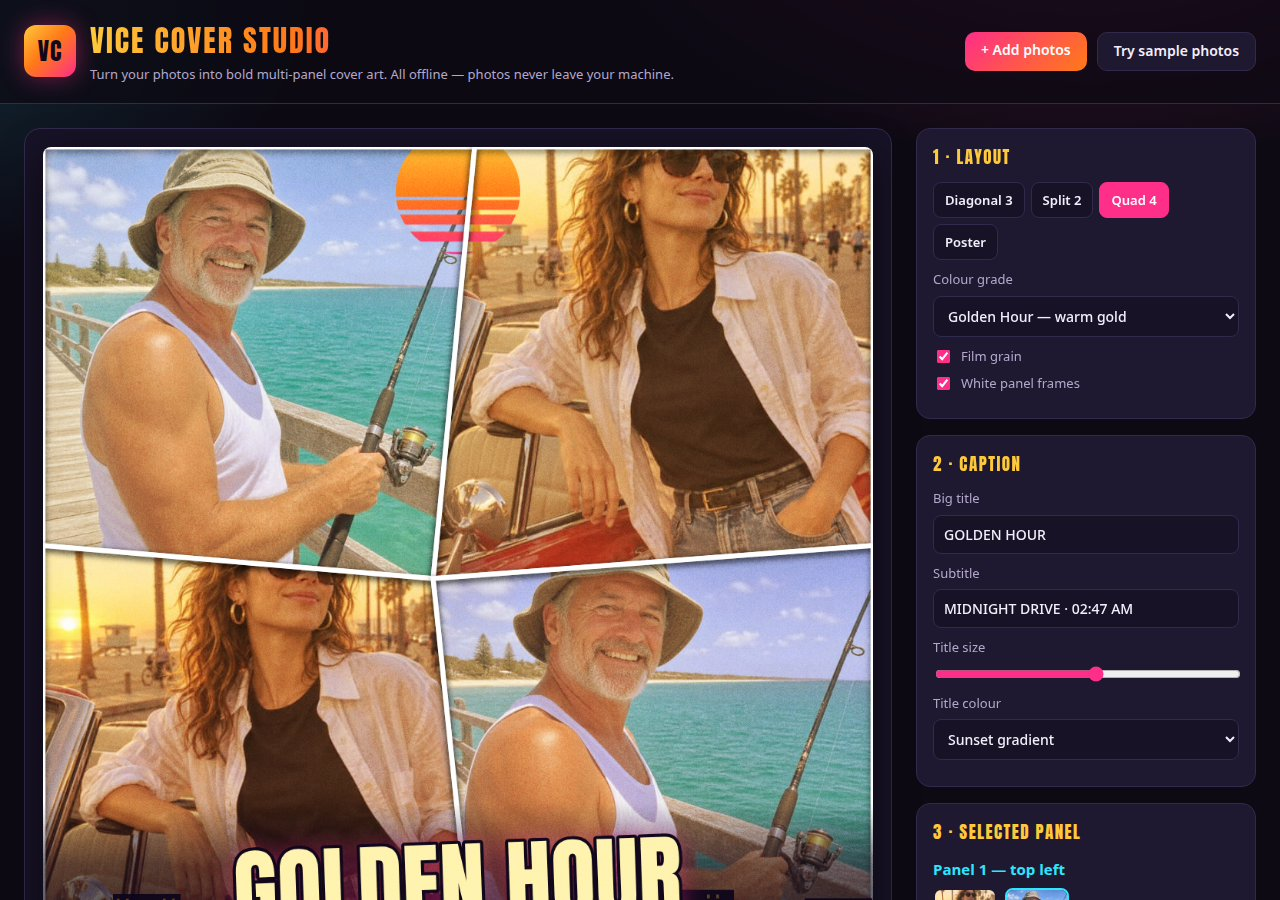
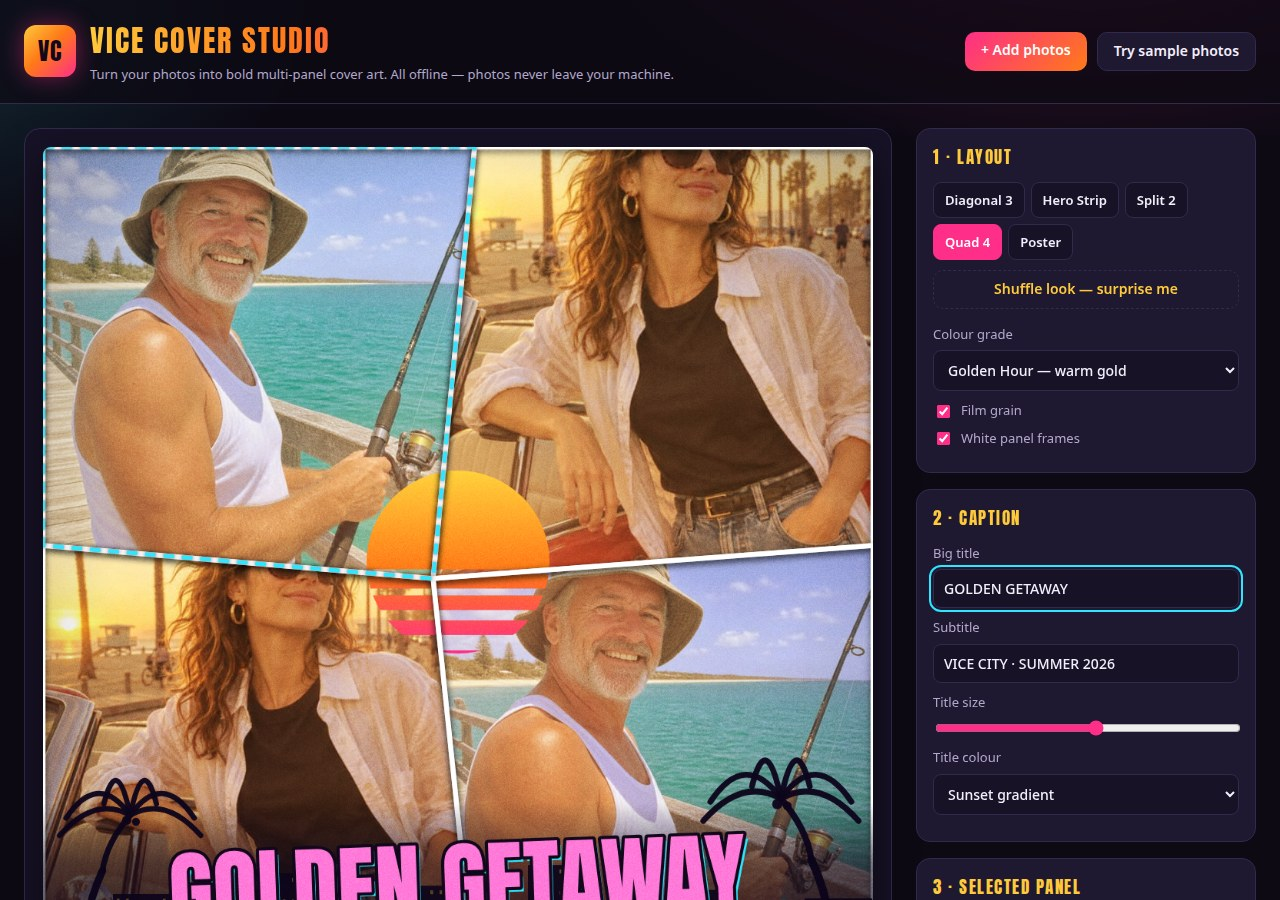
Vice Cover Studio r3: bigger retro sun, palm silhouettes, Hero Strip layout, Vice grade, hard-offset title, Shuffle look
- Retro sun 1.5-2x bigger with glow, placed per layout where faces never
  are (top-right corner for hero layouts, seam centre for split/quad)
- Palm tree silhouettes flanking the caption band, drawn in code
- New Hero Strip layout (big hero + 3-panel strip) and Vice grade
  (hot pink / purple / teal)
- Title gets a hard retro offset shadow (cyan behind neon, pink else)
  plus a subtle vignette for depth
- Shuffle look button: one tap randomises layout + grade + title colour
- Preview shows a dashed cyan outline around the selected panel
- All 4 screenshots regenerated with the new renderer (0 console errors,
  0 failed/external requests in headless Chrome)

diff --git a/app/src/cover.js b/app/src/cover.js
@@ -5,6 +5,7 @@
 
 export const LAYOUTS = {
   diagonal3: { name: "Diagonal 3", panels: ["hero", "street", "night"] },
+  heroStrip: { name: "Hero Strip", panels: ["hero", "strip 1", "strip 2", "strip 3"] },
   split2: { name: "Split 2", panels: ["left", "right"] },
   quad4: { name: "Quad 4", panels: ["top-left", "top-right", "bottom-left", "bottom-right"] },
   poster: { name: "Poster", panels: ["full"] },
@@ -15,6 +16,16 @@ export function panelShapes(layout, W, H) {
   const x = (f) => f * W;
   const y = (f) => f * H;
   switch (layout) {
+    case "heroStrip":
+      // One big hero panel on top, then a strip of three small panels below.
+      // The hero's bottom edge slopes gently; each strip top follows that
+      // same line so the panels meet without gaps.
+      return [
+        { name: "Panel 1 — hero", poly: [[0, 0], [W, 0], [W, y(0.58)], [0, y(0.64)]] },
+        { name: "Panel 2 — strip 1", poly: [[0, y(0.64)], [x(0.36), y(0.618)], [x(0.31), H], [0, H]] },
+        { name: "Panel 3 — strip 2", poly: [[x(0.36), y(0.618)], [x(0.68), y(0.599)], [x(0.63), H], [x(0.31), H]] },
+        { name: "Panel 4 — strip 3", poly: [[x(0.68), y(0.599)], [W, y(0.58)], [W, H], [x(0.63), H]] },
+      ];
     case "split2":
       return [
         { name: "Panel 1 — left", poly: [[0, 0], [x(0.56), 0], [x(0.47), H], [0, H]] },
@@ -91,6 +102,10 @@ const GRADES = {
   gold: [
     ["overlay", [[0, "rgba(255,200,90,0.30)"], [1, "rgba(255,120,20,0.26)"]]],
     ["soft-light", [[0, "rgba(255,230,160,0.30)"], [1, "rgba(160,80,0,0.20)"]]],
+  ],
+  vice: [
+    ["overlay", [[0, "rgba(255,0,160,0.30)"], [0.5, "rgba(140,0,200,0.18)"], [1, "rgba(0,220,255,0.26)"]]],
+    ["multiply", [[0, "rgba(120,0,160,0.16)"], [1, "rgba(0,40,90,0.22)"]]],
   ],
 };
 
@@ -226,6 +241,51 @@ function drawSkyline(ctx, W, H) {
   ctx.restore();
 }
 
+// Palm tree silhouette, drawn in code: a leaning trunk and seven drooping
+// fronds. Two of these flanking the caption band are the Vice City shorthand.
+function drawPalm(ctx, x, baseY, h, lean) {
+  const crownX = x + lean * h;
+  const crownY = baseY - h;
+  ctx.save();
+  ctx.strokeStyle = "rgba(14,5,28,0.96)";
+  ctx.fillStyle = "rgba(14,5,28,0.96)";
+  ctx.lineCap = "round";
+  // Trunk: three tapering strokes along one curve so it narrows to the crown.
+  const segs = 3;
+  for (let s = 0; s < segs; s++) {
+    const t0 = s / segs, t1 = (s + 1) / segs;
+    const px0 = x + lean * h * t0 * t0, py0 = baseY - h * t0;
+    const px1 = x + lean * h * t1 * t1, py1 = baseY - h * t1;
+    ctx.lineWidth = Math.max(2.5, h * 0.055 * (1 - t0 * 0.55));
+    ctx.beginPath();
+    ctx.moveTo(px0, py0);
+    ctx.quadraticCurveTo(px0 + lean * h * 0.08, (py0 + py1) / 2, px1, py1);
+    ctx.stroke();
+  }
+  // Fronds: six thick arcs fanning out from the crown, bowing up first and
+  // then drooping at the tips — the droop is what reads as "palm", not a star.
+  ctx.lineWidth = Math.max(2.5, h * 0.032);
+  const fronds = 6;
+  for (let i = 0; i < fronds; i++) {
+    const a = ((-165 + (i / (fronds - 1)) * 150) * Math.PI) / 180;
+    const len = h * (0.44 + 0.18 * Math.sin((i / (fronds - 1)) * Math.PI));
+    const mx = crownX + Math.cos(a) * len * 0.5;
+    const my = crownY + Math.sin(a) * len * 0.5 - len * 0.14;
+    const ex = crownX + Math.cos(a) * len;
+    const ey = crownY + Math.sin(a) * len * 0.55 + len * 0.42;
+    ctx.beginPath();
+    ctx.moveTo(crownX, crownY);
+    ctx.quadraticCurveTo(mx, my, ex, ey);
+    ctx.stroke();
+  }
+  // Coconuts under the crown.
+  ctx.beginPath();
+  ctx.arc(crownX - h * 0.02, crownY + h * 0.03, h * 0.028, 0, Math.PI * 2);
+  ctx.arc(crownX + h * 0.035, crownY + h * 0.04, h * 0.024, 0, Math.PI * 2);
+  ctx.fill();
+  ctx.restore();
+}
+
 let grainTile = null;
 function grainPattern(ctx) {
   if (grainTile) return grainTile;
@@ -306,11 +366,15 @@ function drawCaption(ctx, W, H, state) {
     ctx.lineWidth = Math.max(4, size * 0.07);
     ctx.strokeStyle = "#12081c";
     ctx.lineJoin = "round";
-    ctx.shadowColor = "rgba(255,46,136,0.65)";
-    ctx.shadowBlur = size * 0.22;
-    ctx.shadowOffsetY = size * 0.03;
-    ctx.strokeText(title, 0, 0);
+    // Retro hard offset: a solid copy of the title shifted down-right first,
+    // so the lettering pops off the photo like a poster. The offset colour
+    // contrasts the fill — cyan behind neon pink, hot pink behind the rest.
+    ctx.save();
     ctx.shadowColor = "transparent";
+    ctx.fillStyle = state.titleColor === "neon" ? "#2ee6ff" : "#ff2e88";
+    ctx.fillText(title, size * 0.045, size * 0.05);
+    ctx.restore();
+    ctx.strokeText(title, 0, 0);
     ctx.fillStyle = titleFill(ctx, W, H, state.titleColor);
     ctx.fillText(title, 0, 0);
     ctx.restore();
@@ -350,10 +414,39 @@ export function renderCover(canvas, W, H, state) {
 
   applyGrade(ctx, W, H, state.grade || "sunset");
 
-  // Retro sun straddling the top-centre seam, half-clipped by the top edge,
-  // so it never covers a face in a side panel.
-  const sunR = Math.round(Math.min(W, H) * 0.075);
-  drawRetroSun(ctx, W / 2, sunR * 0.72, sunR);
+  // Gentle vignette for depth before the graphic elements go on.
+  const vg = ctx.createRadialGradient(W / 2, H * 0.45, Math.min(W, H) * 0.42, W / 2, H * 0.5, Math.max(W, H) * 0.72);
+  vg.addColorStop(0, "rgba(10,4,24,0)");
+  vg.addColorStop(1, "rgba(10,4,24,0.30)");
+  ctx.save();
+  ctx.fillStyle = vg;
+  ctx.fillRect(0, 0, W, H);
+  ctx.restore();
+
+  // Retro sun, big and placed where a face rarely is. Wide hero layouts get
+  // the top-right corner (sky in most photos); split and quad layouts get
+  // the panel-seam centre, where four photo edges meet and no face sits.
+  // A corner sun crossed a face in the right panel of split2/quad4, and a
+  // seam sun crossed foreheads in diagonal3's lower panels — each layout
+  // keeps the anchor that proved clean for it.
+  const sunAnchors = {
+    diagonal3: [0.88, 0.12, 0.11],
+    heroStrip: [0.88, 0.12, 0.11],
+    split2: [0.5, 0.5, 0.12],
+    quad4: [0.5, 0.5, 0.11],
+    poster: [0.84, 0.16, 0.1],
+  };
+  const [sx, sy, sr] = sunAnchors[state.layout || "diagonal3"] || sunAnchors.diagonal3;
+  const sunR = Math.round(Math.min(W, H) * sr);
+  const sunGlow = ctx.createRadialGradient(W * sx, H * sy, 0, W * sx, H * sy, sunR * 2.4);
+  sunGlow.addColorStop(0, "rgba(255,120,60,0.42)");
+  sunGlow.addColorStop(1, "rgba(255,120,60,0)");
+  ctx.save();
+  ctx.globalCompositeOperation = "screen";
+  ctx.fillStyle = sunGlow;
+  ctx.fillRect(0, 0, W, H);
+  ctx.restore();
+  drawRetroSun(ctx, W * sx, H * sy, sunR);
 
   if (state.frames !== false) {
     ctx.save();
@@ -370,6 +463,12 @@ export function renderCover(canvas, W, H, state) {
   }
 
   drawSkyline(ctx, W, H);
+
+  // Palm silhouettes flanking the caption band, short enough to stay clear
+  // of the title and subtitle text.
+  drawPalm(ctx, W * 0.045, H * 1.005, H * 0.2, 0.3);
+  drawPalm(ctx, W * 0.955, H * 1.005, H * 0.22, -0.3);
+
   drawCaption(ctx, W, H, state);
 
   if (state.grain !== false) {

diff --git a/app/src/main.js b/app/src/main.js
@@ -2,7 +2,7 @@
 // Photos are read on the user's own machine (FileReader / object URLs) and
 // never uploaded anywhere; the app makes zero network requests.
 
-import { renderCover, exportCover, panelShapes, panelAt } from "./cover.js";
+import { renderCover, exportCover, panelShapes, panelAt, LAYOUTS } from "./cover.js";
 
 const $ = (id) => document.getElementById(id);
 const preview = $("preview");
@@ -41,6 +41,26 @@ function renderState() {
     return { ...cfg, photo: cfg.photo == null ? null : (photos[cfg.photo] || {}).img || null };
   });
   renderCover(preview, w, h, { ...state, panels });
+  // Preview-only outline around the selected panel (never in the export):
+  // a dashed cyan stroke so it is obvious which panel the sliders edit.
+  const pctx = preview.getContext("2d");
+  const shapes = panelShapes(state.layout, w, h);
+  const shape = shapes[Math.min(state.selected, shapes.length - 1)];
+  if (shape) {
+    const s = w / 1080;
+    pctx.save();
+    pctx.setLineDash([14 * s, 10 * s]);
+    pctx.lineWidth = Math.max(3, 5 * s);
+    pctx.strokeStyle = "#2ee6ff";
+    pctx.shadowColor = "rgba(0,0,0,0.7)";
+    pctx.shadowBlur = 6 * s;
+    pctx.beginPath();
+    pctx.moveTo(shape.poly[0][0], shape.poly[0][1]);
+    for (let i = 1; i < shape.poly.length; i++) pctx.lineTo(shape.poly[i][0], shape.poly[i][1]);
+    pctx.closePath();
+    pctx.stroke();
+    pctx.restore();
+  }
 }
 
 function renderSoon() {
@@ -160,6 +180,31 @@ $("layoutSeg").addEventListener("click", (e) => {
   syncPanelControls();
   renderSoon();
 });
+
+// One-click "surprise me": a random layout + grade + title colour, so a new
+// look is one tap away instead of three separate picks.
+function syncLayoutButtons() {
+  for (const b of $("layoutSeg").querySelectorAll("button")) {
+    b.classList.toggle("on", b.dataset.layout === state.layout);
+  }
+}
+function shuffleLook() {
+  const layouts = Object.keys(LAYOUTS);
+  const grades = ["sunset", "neon", "dusk", "gold", "vice"];
+  const colors = ["sunset", "white", "neon", "gold"];
+  const pick = (arr) => arr[Math.floor(Math.random() * arr.length)];
+  state.layout = pick(layouts);
+  state.grade = pick(grades);
+  state.titleColor = pick(colors);
+  $("gradeSelect").value = state.grade;
+  $("titleColor").value = state.titleColor;
+  ensurePanels();
+  syncPanelControls();
+  syncLayoutButtons();
+  renderSoon();
+  setStatus(`Shuffled: ${LAYOUTS[state.layout].name} · ${state.grade} grade.`);
+}
+$("shuffleBtn").addEventListener("click", shuffleLook);
 
 $("gradeSelect").addEventListener("change", (e) => { state.grade = e.target.value; renderSoon(); });
 $("titleInput").addEventListener("input", (e) => { state.title = e.target.value; renderSoon(); });

diff --git a/app/index.html b/app/index.html
@@ -47,16 +47,19 @@
       <h2>1 · Layout</h2>
       <div class="seg" id="layoutSeg" role="group" aria-label="Layout">
         <button type="button" data-layout="diagonal3" class="on">Diagonal 3</button>
+        <button type="button" data-layout="heroStrip">Hero Strip</button>
         <button type="button" data-layout="split2">Split 2</button>
         <button type="button" data-layout="quad4">Quad 4</button>
         <button type="button" data-layout="poster">Poster</button>
       </div>
+      <button id="shuffleBtn" class="btn btn-shuffle" type="button">Shuffle look — surprise me</button>
       <label class="field">Colour grade
         <select id="gradeSelect">
           <option value="sunset" selected>Sunset — orange / magenta</option>
           <option value="neon">Neon Nights — cyan / pink</option>
           <option value="dusk">Palm Dusk — purple / blue</option>
           <option value="gold">Golden Hour — warm gold</option>
+          <option value="vice">Vice — hot pink / teal</option>
         </select>
       </label>
       <label class="check"><input id="grainToggle" type="checkbox" checked> Film grain</label>

diff --git a/app/style.css b/app/style.css
@@ -174,6 +174,14 @@ body {
   cursor: pointer;
 }
 .seg button.on { background: var(--pink); border-color: var(--pink); color: #fff; }
+.btn-shuffle {
+  width: 100%;
+  margin: 4px 0 6px;
+  border-style: dashed;
+  background: transparent;
+  color: var(--gold);
+}
+.btn-shuffle:hover { border-color: var(--gold); background: rgba(255, 201, 60, .08); }
 
 .panel-name { margin: 0 0 8px; font-weight: 700; color: var(--cyan); }
 .thumbs { display: flex; gap: 8px; flex-wrap: wrap; margin-bottom: 6px; }
